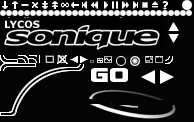
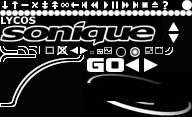
load global png: via .ts

diff --git a/packages/webamp-modern/src/skin/soniqueClasses/navitem.ts b/packages/webamp-modern/src/skin/soniqueClasses/navitem.ts
@@ -1,0 +1,154 @@
+
+export async function navitem(): Promise<Blob> {
+    const bits = [
[12 lines of base64/hex data omitted]
+        'ffffddffffddffffddffffddffffddffffddffffddffffddffffddffffddffffddffffddffffddffffddffffddffffddffffddffffddffffddffffddffffddffffddffffddffffddffffddffffddffffddffffddffffddffffddffffddffffdd',
+        'ffffddffffdcffffdcffffdcffffdcffffdcffffdcffffdcffffdcffffdcffffdcffffdcffffdcffffdcffffdcffffdcffffdcffffdcffffdcffffdcffffdcffffdcffffdcffffdcffffdcffffdcffffdcffffdcffffdcffffdcffffdcffffd8',
[2 lines of base64/hex data omitted]
+        '440024300144002776100177610000677200000000000000000000000000000000000000000000000000000000000000000000000000000000000000000000000000000000000000000000000000000000000000000000000000000000000000',
[98 lines of base64/hex data omitted]
+        '000000000000000000000000000000000000000000000000000000000000000000000000000000000000000000000000000000000000000000000000000000000000000000000000000000000000022344555555544331000000000000000000'
+    ]
+    const canvas = document.createElement("canvas");
+    const w = bits[0].length;
+    const h = bits.length;
+    canvas.width = w;
+    canvas.height = h;
+    const ctx = canvas.getContext("2d");
+    ctx.fillStyle = "white";
+    ctx.fillRect(0, 0, w, h);
+
+    const imageData = ctx.getImageData(
+        0,
+        0,
+        w,
+        h
+    );
+    const data = imageData.data;
+    for (var y = 0; y < h; y ++) {
+        var s = bits[y];
+        for (var x = 0; x < w; x ++) {
+            var b = parseInt(`0x${s[x]}${s[x]}`);
+            data[(y*w + x) * 4 + 3] =b;
+        }
+    }
+
+    // for (var i = 0; i < data.length; i += 4) {
+    //     data[i + 3] = data[i + 0];
+    // }
+    ctx.putImageData(imageData, 0, 0);
+
+    return new Promise((resolve, reject) => {
+        canvas.toBlob((blob) => resolve(blob));
+    })
+
+}

diff --git a/packages/webamp-modern/src/skin/soniqueClasses/SgfFileExtractor.ts b/packages/webamp-modern/src/skin/soniqueClasses/SgfFileExtractor.ts
@@ -1,4 +1,5 @@
 import { FileExtractor } from "../FileExtractor";
+import { navitem } from "./navitem";
 
 type Chunk = {
   start: number;
@@ -63,7 +64,11 @@ export default class SgfFileExtractor extends FileExtractor {
     // });
   }
 
-  async getFileAsBlob(filePath: string): Promise<Blob> {
+  async getFileAsBlob(filePath: string): Promise<Blob> {    
+    console.log('getting ',filePath)
+    if (filePath=='/png/navitem'){
+      return navitem()
+    }
     const chunk = this._toc[filePath];
     if (!chunk) return null;
     const part = this._arr.slice(chunk.start, chunk.end);

diff --git a/packages/webamp-modern/src/skin/SkinEngine_Sonique.ts b/packages/webamp-modern/src/skin/SkinEngine_Sonique.ts
@@ -150,7 +150,8 @@ export class SoniqueSkinEngine extends SkinEngine {
     for (const bitmapName of knownBitmaps) {
       await this.bitmap(
         new XmlElement("bitmap", {
-          file: '/jpeg/navitem1',
+          // file: '/jpeg/navitem1',
+          file: '/png/navitem',
           id: `nav.${bitmapName}`,
           x: '0',
           y: '0',

diff --git a/packages/webamp-modern/pyhelper/navitem.py b/packages/webamp-modern/pyhelper/navitem.py
@@ -1,0 +1,55 @@
+import os, struct
+from PIL import Image
+print('navitem')
+
+os.chdir(os.path.dirname(__file__))
+
+print(os.path.abspath(os.path.curdir))
+
+
+imagePath = '../src/skin/soniqueClasses/res/navitem.png'
+newImagePath = '../src/skin/soniqueClasses/res/navitem-trans2.png'
+
+im = Image.open(imagePath)
+
+def redOrBlack (im):
+    im = im.convert('RGBA')
+    newimdata = []
+    # redcolor = (255,0,0)
+    # blackcolor = (0,0,0)
+    hex = '0123456789abcdefg'
+    arr = [] #? [  [color,count]  ]
+    for i,color in enumerate(im.getdata()):
+        r = color[0]
+        h = round((r) / 16)
+        h = r >> 4
+        r = ((r+1) // 16) * 16 -1
+        # r = ((r+1) // 8) * 8 -1
+        # r = ((r+1) // 32) * 32 -1
+        if r <=8: 
+            r = 0
+
+        if i == 0 :
+            arr.append([r, 1])
+        elif r == arr[-1][0]:   #? same as previous
+            arr[-1][1] = arr[-1][1] +1
+        else:
+            arr.append([r, 1])
+        # print(r, end=',')
+        print(hex[h], end='')
+        if i % 192 == 0:
+            print('')
+        # if color == redcolor:
+        #     newimdata.append( redcolor )
+        # else:
+        #     newimdata.append( blackcolor )
+        # color = tuple([color[0], color[1], color[2], color[0]])
+        color = tuple([255,255,255, r])
+        newimdata.append( color )
+
+    # print(arr)
+    newim = Image.new(im.mode,im.size)
+    newim.putdata(newimdata)
+    return newim
+
+redOrBlack(im).save(newImagePath)
